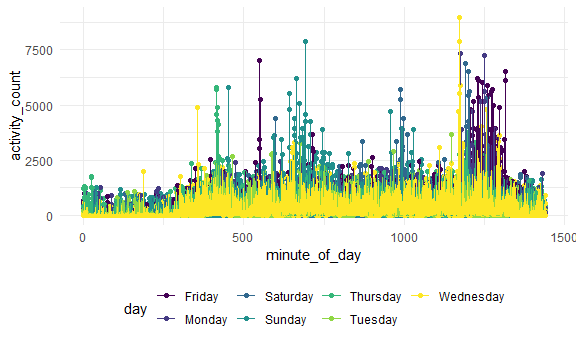
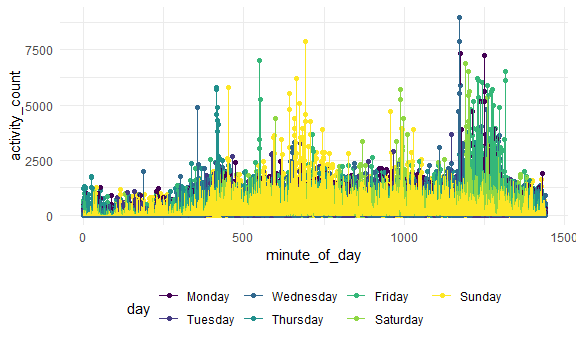
releveled day factor

diff --git a/p8105_hw3_kpr2118.md b/p8105_hw3_kpr2118.md
@@ -238,9 +238,14 @@ We can also make a plot…
 
 ``` r
 accel_df %>% 
+    mutate(
+    day = forcats::fct_relevel(day, "Monday", "Tuesday", "Wednesday", "Thursday", "Friday", "Saturday", "Sunday")
+  ) %>% 
   ggplot(aes(x = minute_of_day, y = activity_count, color = day)) +
   geom_point() +
   geom_line()
 ```
 
 <img src="p8105_hw3_kpr2118_files/figure-gfm/unnamed-chunk-8-1.png" width="90%" />
+
+From the plot, we can see other trends. For example,
